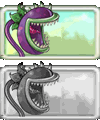
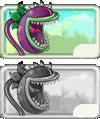
feat: add plant cost on plant cards

diff --git a/src/game/PlantCard.ts b/src/game/PlantCard.ts
@@ -8,6 +8,7 @@ import {
   PLANT_CARD_WIDTH_COEF,
 } from '../constats';
 import { IImageNode, NodesType } from '../engine/types';
+import { TEXT_BUTTONS_FONT } from './screens/ScreenCreator';
 
 export default class PlantCard {
   public plant: Plant;
@@ -72,6 +73,22 @@ export default class PlantCard {
       dh: this.engine.size.y * PLANT_CARD_HEIGHT_COEF * 1.1,
       srcPosition: this.engine.vector(0, srcPos),
     }) as IImageNode;
+    this.drawCost();
+  }
+
+  public drawCost(): void {
+    this.engine.createNode({
+      type: 'TextNode',
+      position: this.engine.vector(
+        this.node.position.x + this.node.dw - 35,
+        this.node.position.y + this.node.dh - 15,
+      ),
+      text: this.plantData.cost,
+      layer: 'main',
+      fontSize: 15,
+      color: '#000',
+      font: TEXT_BUTTONS_FONT,
+    }).addTo('scene');
   }
 
   public addEventListener(plantCards: PlantCard[]) {
